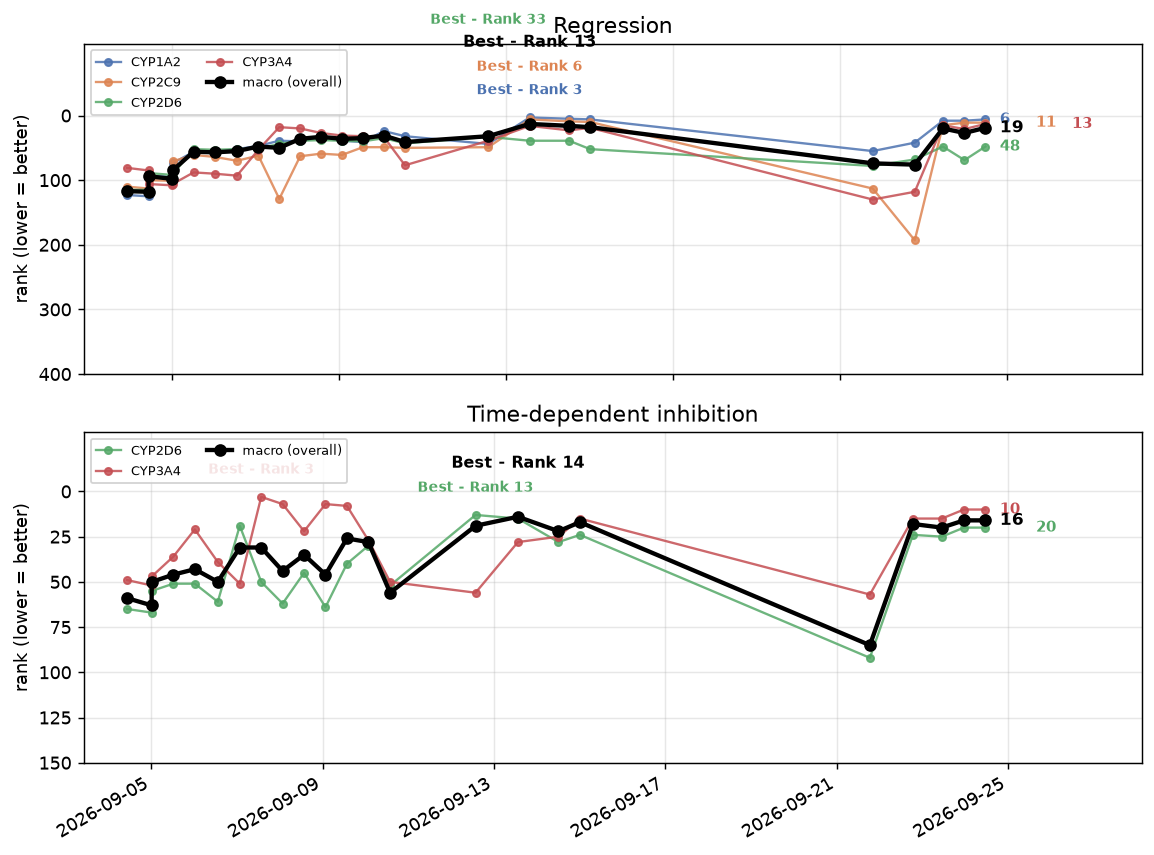
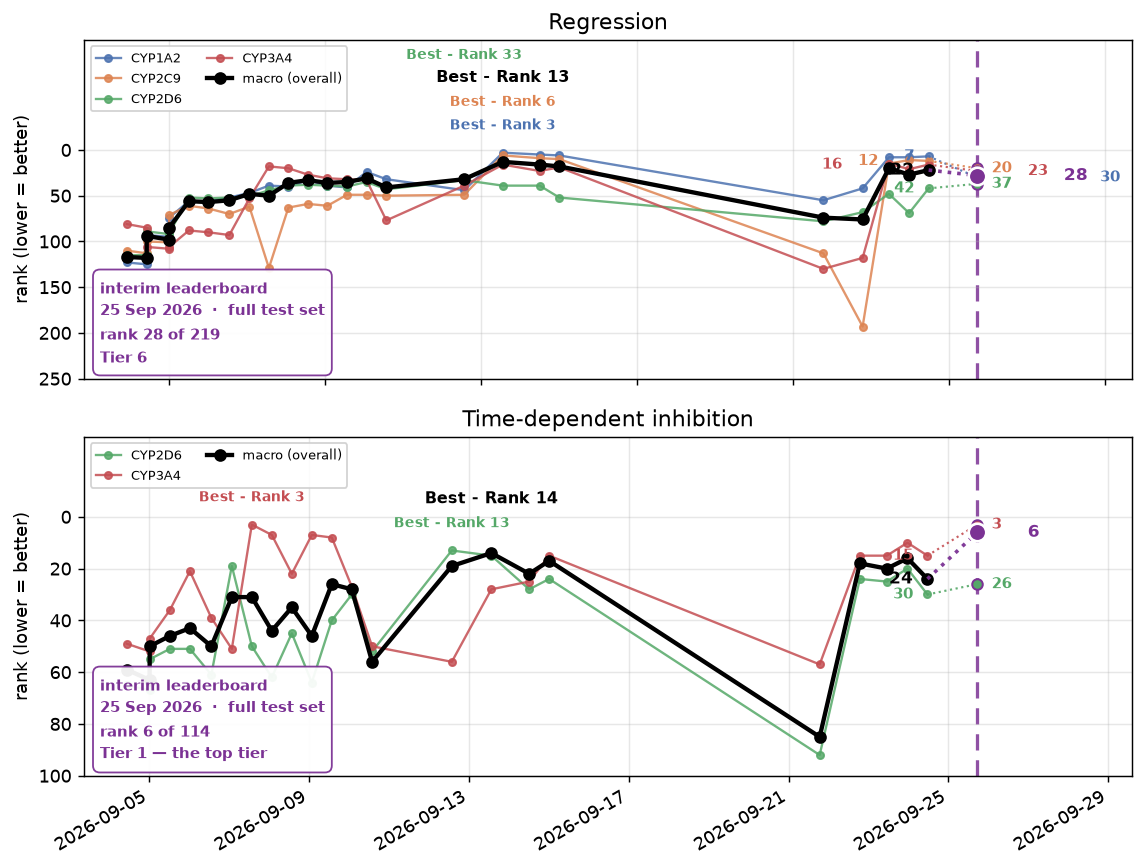
CYP inhibition challenge -- method and results

diff --git a/README.md b/README.md
@@ -4,8 +4,7 @@ Stacked ensemble for the [OpenADMET CYP Inhibition Blind Challenge](https://hugg
 — **pIC50 regression** across four cytochrome P450 isoforms, and **time-dependent inhibition
 (TDI)** classification for two of them.
 
-Best standing to date: **macro rank 10 of 146** on the regression track, with three of the four
-endpoints inside the top 11.
+On the organisers' **interim leaderboard** — scored on the *entire* held-out test set rather than the half the live board uses — this work placed **rank 28 of 219** on the regression track (Tier 6); and **rank 6 of 114** on the TDI track, inside **Tier 1** — the top tier, the 26 entries the organisers could not separate from first place.
 
 > Write-up only. This repository holds the method description and results; it is not the
 > training code.
@@ -28,37 +27,19 @@ Every reported number is out-of-fold. Nothing is scored on data the base learner
 
 **Regression** (pIC50)
 
-<table>
-<thead>
-<tr><th rowspan="2">Endpoint</th><th colspan="4">Metrics &mdash; held-out CV</th><th colspan="3">Ranking &mdash; of 230 entries</th></tr>
-<tr><th>MAE</th><th>RMSE</th><th>R²</th><th>Spearman ρ</th><th>best</th><th>latest</th><th>percentile</th></tr>
-</thead>
-<tbody>
-<tr><td>CYP1A2</td><td align="right">0.429</td><td align="right">0.589</td><td align="right">0.671</td><td align="right">0.777</td><td align="right">3</td><td align="right">6</td><td align="right">top 3%</td></tr>
-<tr><td>CYP2C9</td><td align="right">0.327</td><td align="right">0.443</td><td align="right">0.667</td><td align="right">0.834</td><td align="right">6</td><td align="right">11</td><td align="right">top 5%</td></tr>
-<tr><td>CYP2D6</td><td align="right">0.432</td><td align="right">0.658</td><td align="right">0.481</td><td align="right">0.792</td><td align="right">33</td><td align="right">48</td><td align="right">top 21%</td></tr>
-<tr><td>CYP3A4</td><td align="right">0.349</td><td align="right">0.469</td><td align="right">0.813</td><td align="right">0.910</td><td align="right">13</td><td align="right">13</td><td align="right">top 6%</td></tr>
-<tr><td><strong>macro average</strong></td><td align="right"><strong>0.384</strong></td><td align="right"><strong>0.540</strong></td><td align="right"><strong>0.658</strong></td><td align="right"><strong>0.828</strong></td><td align="right"><strong>13</strong></td><td align="right"><strong>19</strong></td><td align="right"><strong>top 8%</strong></td></tr>
-</tbody>
-</table>
+{_table("Regression", ["MAE", "RMSE", "R2", "Spearman"], ["MAE", "RMSE", "R²", "Spearman ρ"])}
 
 **Time-dependent inhibition** (binary)
 
-<table>
-<thead>
-<tr><th rowspan="2">Endpoint</th><th colspan="2">Metrics &mdash; held-out CV</th><th colspan="3">Ranking &mdash; of 107 entries</th></tr>
-<tr><th>MCC</th><th>AUC</th><th>best</th><th>latest</th><th>percentile</th></tr>
-</thead>
-<tbody>
-<tr><td>CYP2D6</td><td align="right">0.268</td><td align="right">0.711</td><td align="right">13</td><td align="right">20</td><td align="right">top 19%</td></tr>
-<tr><td>CYP3A4</td><td align="right">0.437</td><td align="right">0.805</td><td align="right">3</td><td align="right">10</td><td align="right">top 9%</td></tr>
-<tr><td><strong>macro average</strong></td><td align="right"><strong>0.353</strong></td><td align="right"><strong>0.758</strong></td><td align="right"><strong>14</strong></td><td align="right"><strong>16</strong></td><td align="right"><strong>top 15%</strong></td></tr>
-</tbody>
-</table>
+{_table("Time-dependent inhibition", ["MCC", "AUC"], ["MCC", "AUC"])}
 
 ## Leaderboard history
 
 ![leaderboard history](leaderboard_history.png)
+
+*Coloured lines are the live leaderboard, which scores half the held-out set and moves with every
+submission. The dashed vertical rule marks the release of the interim leaderboard, scored on the
+whole set; each line continues to its own standing there, with the overall result in purple.*
 
 ### Where this sits against the field
 
